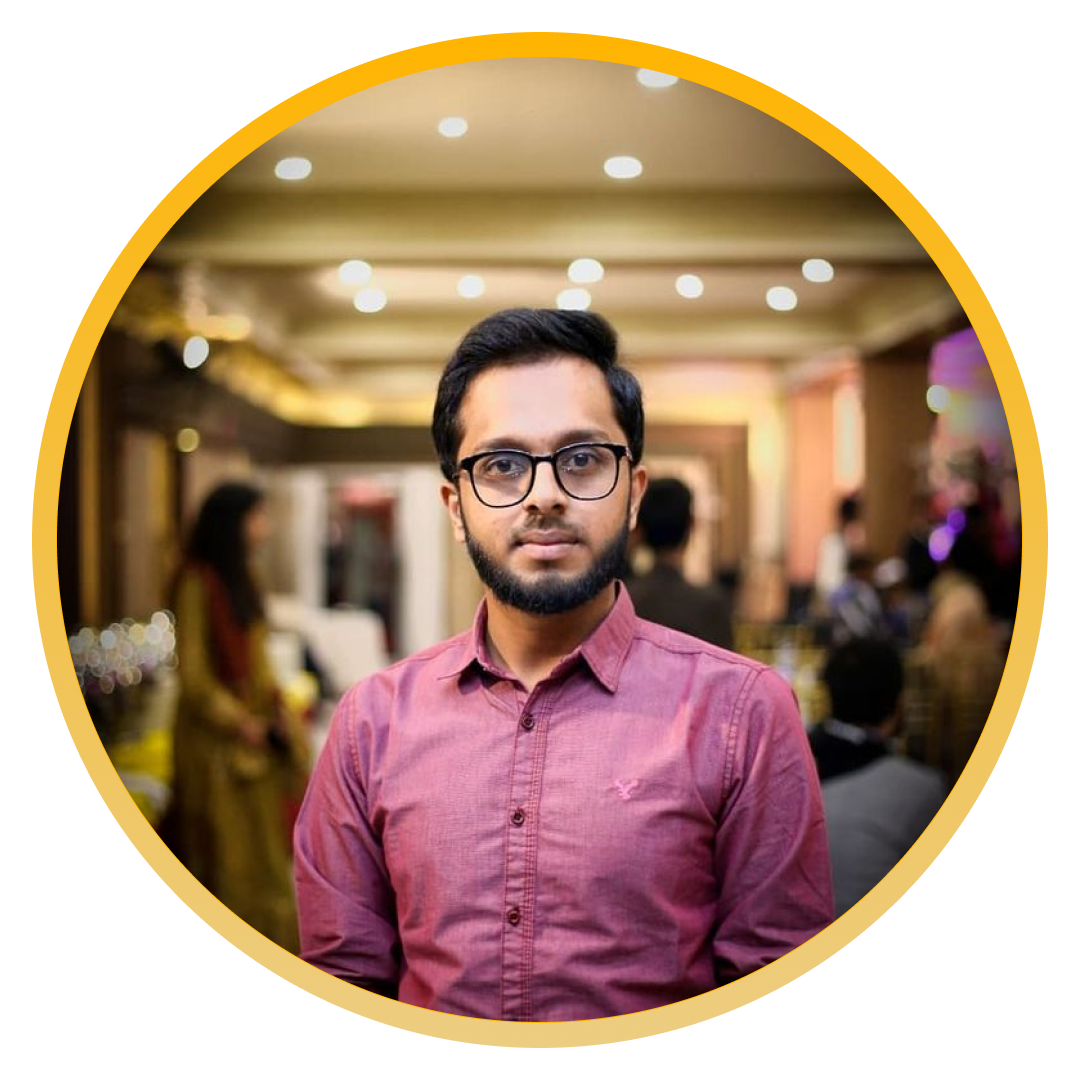
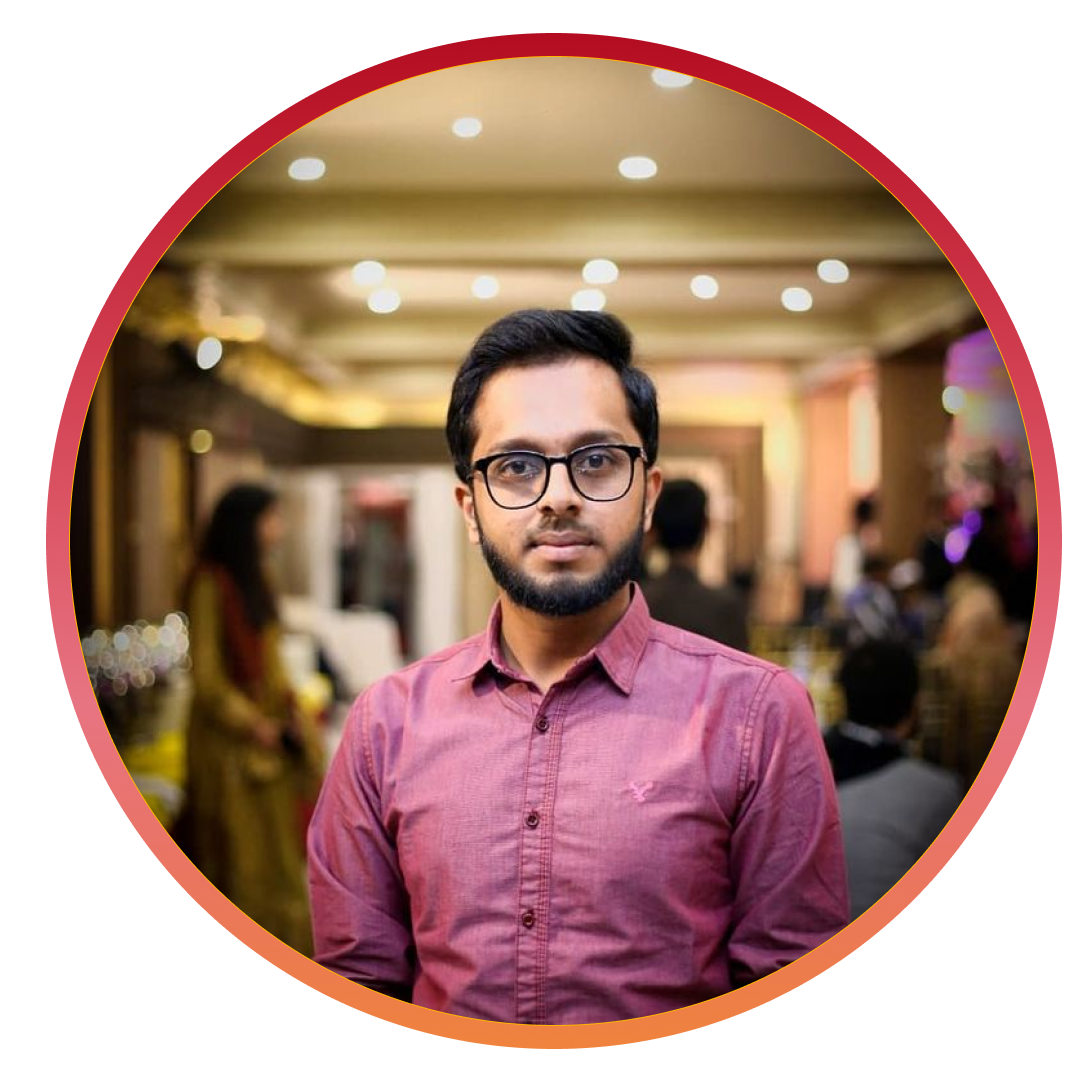
Hero Section Done With Responisveness

diff --git a/index.html b/index.html
@@ -7,12 +7,13 @@
     <link rel="stylesheet" href="/css/style.css">
     <link rel="stylesheet" href="/css/main.css">
     <link href="https://cdn.jsdelivr.net/npm/bootstrap@5.2.0/dist/css/bootstrap.min.css" rel="stylesheet" integrity="sha384-gH2yIJqKdNHPEq0n4Mqa/HGKIhSkIHeL5AyhkYV8i59U5AR6csBvApHHNl/vI1Bx" crossorigin="anonymous">
+    <script src="/index.js"></script>
     <script src="https://cdn.jsdelivr.net/npm/bootstrap@5.2.0/dist/js/bootstrap.bundle.min.js" integrity="sha384-A3rJD856KowSb7dwlZdYEkO39Gagi7vIsF0jrRAoQmDKKtQBHUuLZ9AsSv4jD4Xa" crossorigin="anonymous"></script>
   </head>
   <body>
     
     <!-- ##################   NAVBAR   ################# -->
-    <nav class="navbar navbar-expand-lg py-3 sticky-top my_nav " >
+    <nav class="navbar navbar-expand-lg py-3 px-4 sticky-top my_nav " >
         <div class="container-fluid ">
           <a href="/index.html"><img src="/images/logo.png" alt="Logo" class="logo mx-3"></a>
           <button class="navbar-toggler" type="button" data-bs-toggle="collapse" data-bs-target="#navbarSupportedContent" aria-controls="navbarSupportedContent" aria-expanded="false" aria-label="Toggle navigation">
@@ -40,10 +41,30 @@
             <a href="https://drive.google.com/file/d/1svDwOawhUvESEvOCUepRtRyruV2bWtMT/view?usp=sharing" class="btn_resume" target="_blank">Download Resume</a>
         </div>
       </div>
-      </nav>
+    </nav>
 
 
-
+<!-- #######################################  HERO SECTION  #################################### -->
+    <section>
+        <div class="container-fluid hero_container">
+          <div class="row px-4 justify-content-center align-items-center ">
+            <div class="col-md-6 col-xs-10 px-5 hero_left d-flex flex-column align-content-center">
+              <h1>Hi! I am Mubashar Nouman </h1>
+              <div class="d-flex type_div">
+                <h2 class="nowrap_text">and I am a &nbsp</h2>
+                  <h2 href="" class="typewrite" data-period="2000" data-type='[ "Front-End Developer.", "UI UX Designer.", "WordPress Developer."]'>
+                    <span class="wrap"></span>
+                  </h2>
+              </div>
+              <p class="hero_p">A passionate Front-End Developer🚀, UI/UX Designer and a WordPress developer. Love to explore new technologies😍 and work on them.</p>
+            </div>
+            <!-- Right Column -->
+            <div class="col-md-6 col-xs-10 hero_right d-flex justify-content-center" >
+              <img src="/images/hero.png" class="img-fluid" alt="">
+            </div>
+          </div>
+        </div>
+    </section>
 
 
 

diff --git a/css/style.css b/css/style.css
@@ -1,9 +1,13 @@
+@import url('https://fonts.googleapis.com/css2?family=Montserrat:ital,wght@0,200;0,300;0,400;0,500;0,600;0,700;0,800;0,900;1,400;1,500;1,600;1,700;1,800;1,900&family=Poppins:ital,wght@0,100;0,200;0,300;0,400;0,500;0,600;0,700;0,800;0,900;1,200;1,300;1,400;1,500;1,600;1,700;1,800;1,900&family=Roboto:ital,wght@0,100;0,300;0,500;0,700;0,900;1,300;1,500;1,700;1,900&display=swap');
+body{
+    font-family: Montserrat,sans-serif;
+}
 
-/* body{
-    height: 200vh;
-} */
 
-/* ####################### NAVBAR STYLING  ##################### */
+
+
+
+/* ####################### NAVBAR STYLING  ############################################################################# */
 .my_nav{
     background-color: white;
     box-shadow: 0 3px 12px -1px rgba(255, 182, 182, 0.2);
@@ -11,7 +15,7 @@
 .my_nav a{
     font-size: 1.2rem;
     font-weight: 500;
-    opacity: 0.85;
+    color: var(--dark-grey);
 }
 .my_nav a:hover {
     color: var(--primary);
@@ -20,7 +24,7 @@
     color: var(--primary);
 }
 .logo{
-    width: 200px;
+    width: 150px;
 }
 .btn_resume {
     border: 1.5px solid var(--primary);
@@ -42,6 +46,51 @@
 
 
 
+/* #########################  HERO SECTION  ###################################################################################### */
 
-/* #########################  HERO SECTION  ######################### */
+.hero_container .row{
+    height: 88vh;
+}
+.hero_left h1{
+    font-size: 3.8rem;
+    font-weight: bold;
+    margin-bottom: 0.8rem;
+    opacity: 0.87;
+}
+.hero_right img{
+    width: 400px;
+}
+.typewrite{
+    color:rgb(190, 0, 0); text-decoration: none;
+}
+.type_div h2{
+    font-weight: 2.4rem;
+    font-weight: bold;
+    opacity: 0.87;
+}
+.nowrap_text{
+    white-space: nowrap;
 
+}
+.hero_p{
+    /* font-size: 1.6rem; */
+    color: var(--dark-grey);
+    font-size: x-large;
+    line-height: 1.5;
+    margin-top: 2rem;
+    font-weight: 500;
+}
+@media screen and (max-width: 767px) {
+    .hero_left h1{
+        font-size: 2.8rem;
+        margin-top: 4rem;
+    }
+    .type_div h2{
+        font-weight: 1.8rem;
+    }
+    .hero_p{
+        font-size: 1.4rem;
+        line-height: 1.4;
+        
+    }
+  }

diff --git a/index.js b/index.js
@@ -1,0 +1,59 @@
+var TxtType = function(el, toRotate, period) {
+    this.toRotate = toRotate;
+    this.el = el;
+    this.loopNum = 0;
+    this.period = parseInt(period, 10) || 2000;
+    this.txt = '';
+    this.tick();
+    this.isDeleting = false;
+};
+
+TxtType.prototype.tick = function() {
+    var i = this.loopNum % this.toRotate.length;
+    var fullTxt = this.toRotate[i];
+
+    if (this.isDeleting) {
+    this.txt = fullTxt.substring(0, this.txt.length - 1);
+    } else {
+    this.txt = fullTxt.substring(0, this.txt.length + 1);
+    }
+
+    this.el.innerHTML = '<span class="wrap">'+this.txt+'</span>';
+
+    var that = this;
+    var delta = 200 - Math.random() * 100;
+
+    if (this.isDeleting) { delta /= 2; }
+
+    if (!this.isDeleting && this.txt === fullTxt) {
+    delta = this.period;
+    this.isDeleting = true;
+    } else if (this.isDeleting && this.txt === '') {
+    this.isDeleting = false;
+    this.loopNum++;
+    delta = 500;
+    }
+
+    setTimeout(function() {
+    that.tick();
+    }, delta);
+};
+
+window.onload = function() {
+    var elements = document.getElementsByClassName('typewrite');
+    for (var i=0; i<elements.length; i++) {
+        var toRotate = elements[i].getAttribute('data-type');
+        var period = elements[i].getAttribute('data-period');
+        if (toRotate) {
+          new TxtType(elements[i], JSON.parse(toRotate), period);
+        }
+    }
+    // INJECT CSS
+    var css = document.createElement("style");
+    css.type = "text/css";
+    css.innerHTML = ".typewrite > .wrap { border-right: 0.08em solid #fff}";
+    document.body.appendChild(css);
+};
+
+
+// Text Typing Animation Ends Here

diff --git a/css/main.css b/css/main.css
@@ -1,4 +1,5 @@
 :root {
     --primary: #f24856;
     --primary-20: #f2485631;
+    --dark-grey : rgb(116, 114, 114);
   }
